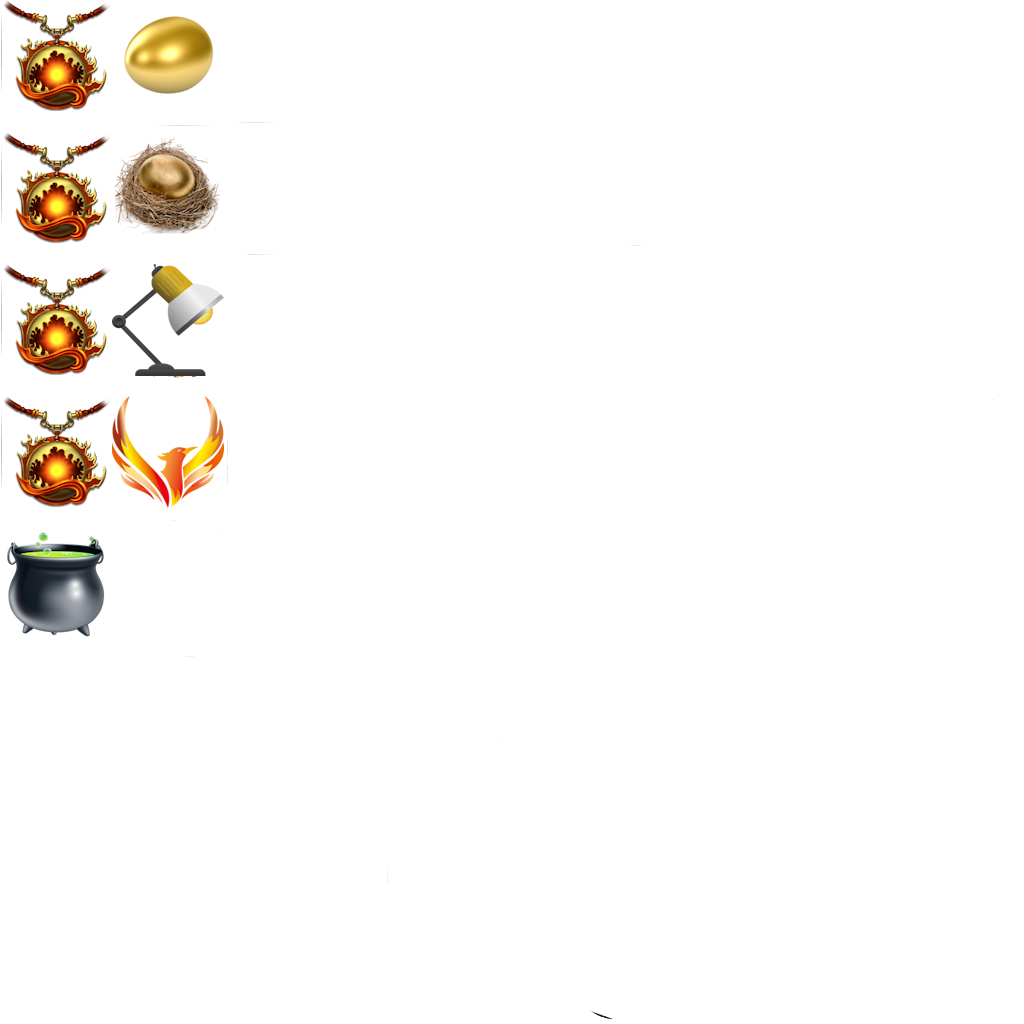
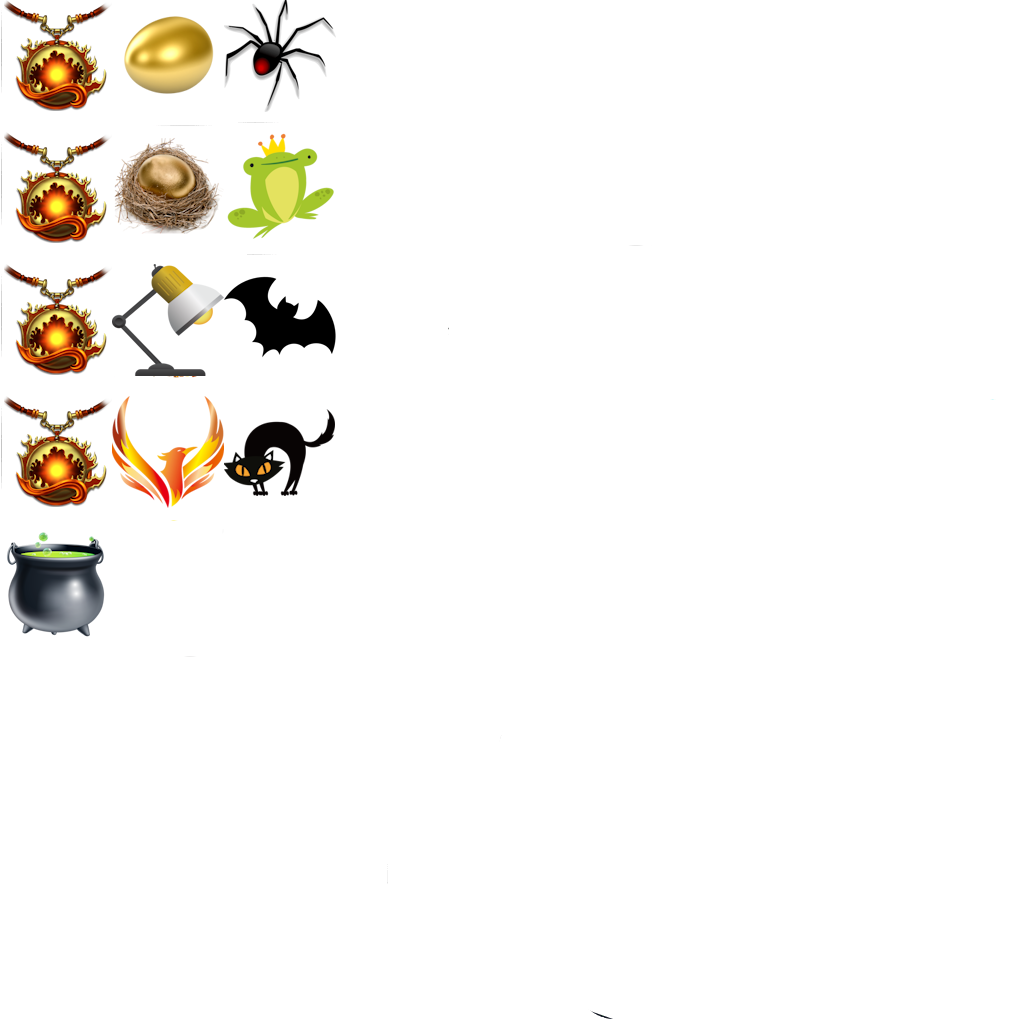
- начало работы с перемещением объектов при tap

Changed region(s): [[0.2188, 0.125, 0.3438, 0.3438], [0.2188, 0.4062, 0.3438, 0.5], [0.2188, 0.0, 0.3125, 0.0938]]

diff --git a/core/src/com/merge/game/scenes/SceneGame.java b/core/src/com/merge/game/scenes/SceneGame.java
@@ -5,6 +5,7 @@ import com.merge.game.logic.Input;
 import com.merge.game.logic.Tools;
 import com.merge.game.logic.player_data.Player;
 import com.merge.game.objects.Background;
+import com.merge.game.objects.DisplayObject;
 import com.merge.game.objects.game_elements.Task;
 import com.merge.game.objects.game_elements.Trash;
 import com.merge.game.objects.grid.GenerateItemType;
@@ -73,6 +74,7 @@ public class SceneGame extends Scene {
         updateTopPanel();
         updateTaskPanel();
         updateClearButton();
+        updateBonuses();
         updateGlobal();
     }
 
@@ -154,7 +156,7 @@ public class SceneGame extends Scene {
     private void initGenerateItem() {
         int x = Tools.randomInt(GRID_COUNT_WIDTH);
         int y = Tools.randomInt(GRID_COUNT_HEIGHT);
-        _items[x][y] = new com.merge.game.objects.grid.MergeItem(_grid[x][y].getX(), _grid[x][y].getY(), _grid[x][y].getWidth(), _grid[x][y].getHeight(), x, y, 0, 1, GenerateItemType.KETTLE, GameObjectType.GENERATE);
+        _items[x][y] = new MergeItem(_grid[x][y].getX(), _grid[x][y].getY(), _grid[x][y].getWidth(), _grid[x][y].getHeight(), x, y, 0, 1, GenerateItemType.KETTLE, GameObjectType.GENERATE);
         _items[x][y].setType(GameObjectType.GENERATE);
         addChild(_items[x][y]);
     }
@@ -193,6 +195,8 @@ public class SceneGame extends Scene {
     }
 
     private void updateItems() {
+        updateTouch();
+        //updateDrag();
         boolean isOverlap = false;
         if(_activeObject != null && !Input.isTouched()){
             for (int i = 0; i < GRID_COUNT_WIDTH; i++) {
@@ -218,6 +222,59 @@ public class SceneGame extends Scene {
             _activeObject = null;
 
         }
+    }
+
+    private void updateTouch(){
+
+        if(!Input.isJustTouched()){
+            return;
+        }
+
+        for (int i = 0; i < GRID_COUNT_WIDTH; i++) {
+            for (int j = 0; j < GRID_COUNT_HEIGHT; j++) {
+                if(_items[i][j] != null && _items[i][j].isTouched()){
+                    MergeItem obj = _items[i][j];
+                    //check bonuses here
+                    //checkBonuses();
+                    if(_activeObject == null){
+                        activeteObject(obj);
+                        obj.startDrag();
+                    }else {
+                        if(_activeObject == obj){
+                            deactivateObject();
+                            //game sound deactivate
+                        }else {
+                            if(getDistanceBetweenObjects(_activeObject, obj) == 1.0f){
+
+                            }else {
+
+                            }
+                        }
+                    }
+                }
+
+
+            }
+        }
+    }
+
+    private float getDistanceBetweenObjects(MergeItem obj1, MergeItem obj2) {
+        return Tools.getDistance(obj1.getGridX(), obj1.getGridY(), obj2.getGridX(), obj2.getGridY());
+    }
+
+    private void activeteObject(MergeItem obj) {
+        //sound on activate
+        _activeObject = obj;
+        obj.setActive(true);
+    }
+
+    private void deactivateObject() {
+        if (_activeObject == null){
+            return;
+        }
+
+        _activeObject.setActive(false);
+        _activeObject = null;
     }
 
     private void updateTopPanel() {
@@ -288,6 +345,10 @@ public class SceneGame extends Scene {
                 }
             }
         }
+    }
+
+    private void updateBonuses(){
+
     }
 
     private void updateGlobal(){

diff --git a/core/src/com/merge/game/resources/textures/TextureItems.java b/core/src/com/merge/game/resources/textures/TextureItems.java
@@ -5,7 +5,8 @@ import com.badlogic.gdx.graphics.g2d.TextureRegion;
 
 public class TextureItems {
 
-    public static TextureRegion buttonStart, generateKettle, score, gold, level, trash, clear, taskField, taskAbledButton, taskDisabledButton, fade, broken;
+    public static TextureRegion buttonStart, generateKettle, score, gold, level, trash, clear,
+            taskField, taskAbledButton, taskDisabledButton, fade, broken;
     public static TextureRegion bonusPanel, bonusField, bonusFixGenerate, bonusMaxItem, bonusRandomItem;
     public static TextureRegion mainScenePlay, mainSceneShop, mainSceneRewards;
     public static TextureRegion[] gridCell, kettle1, kettle2, kettle3, kettle4, kettle5;
@@ -90,25 +91,25 @@ public class TextureItems {
         Texture texture = Textures.amulet;
 
         //in const
-        amulet1 = new TextureRegion[5];
+        amulet1 = new TextureRegion[3];
         amulet1[0] = new TextureRegion(texture, 0, 0, 112, 112);
         for (int i = 1; i <= 1; i++) {
             amulet1[i] = new TextureRegion(texture, i * 112, 0, 112, 112);
         }
 
-        amulet2 = new TextureRegion[5];
+        amulet2 = new TextureRegion[3];
         amulet2[0] = new TextureRegion(texture, 0, 132, 112, 112);
         for (int i = 1; i <= 1; i++) {
             amulet2[i] = new TextureRegion(texture,i * 112, 132, 112, 112);
         }
 
-        amulet3 = new TextureRegion[5];
+        amulet3 = new TextureRegion[3];
         amulet3[0] = new TextureRegion(texture, 0, 264, 112, 112);
         for (int i = 1; i <= 1; i++) {
             amulet3[i] = new TextureRegion(texture, i * 112, 264, 112, 112);
         }
 
-        amulet4 = new TextureRegion[5];
+        amulet4 = new TextureRegion[3];
         amulet4[0] = new TextureRegion(texture, 0, 396, 112, 112);
         for (int i = 1; i <= 1; i++) {
             amulet4[i] = new TextureRegion(texture, i * 112, 396, 112, 112);
@@ -147,7 +148,7 @@ public class TextureItems {
 
     private static void initEffects(){
         Texture texture = Textures.panels;
-        broken = new TextureRegion(texture, 0, 565, 120, 120);
+        broken = new TextureRegion(texture, 565, 0, 120, 120);
     }
 
     private static void initGameItems() {

diff --git a/core/src/com/merge/game/objects/grid/MergeItem.java b/core/src/com/merge/game/objects/grid/MergeItem.java
@@ -3,7 +3,9 @@ package com.merge.game.objects.grid;
 import com.badlogic.gdx.graphics.g2d.TextureRegion;
 import com.merge.game.logic.Globals;
 import com.merge.game.logic.Input;
+import com.merge.game.objects.DisplayObject;
 import com.merge.game.objects.GameObjectType;
+import com.merge.game.resources.textures.TextureItems;
 
 public class MergeItem extends GridObject {
 
@@ -14,6 +16,10 @@ public class MergeItem extends GridObject {
     private boolean _isMoving = false;
     private float _startMoveX = 0, _startMoveY = 0;
     private float _moveX = 0, _moveY = 0;
+
+    private boolean _isDragging = false;
+    private float _startDragX = 0, _startDragY = 0;
+    private float _dragX = 0, _dragY = 0;
 
     protected boolean _isActive = false;
     protected boolean _isBroken = false;
@@ -120,11 +126,27 @@ public class MergeItem extends GridObject {
 
     private void updateGenerator(){
         if(getGameObjectType() == GameObjectType.GENERATE && _energy == 0){
-
-            _isBroken = true;
+            brokeItem();
         }else if(!_isBroken) {
-
+            fixItem();
         }
     }
 
+    public void brokeItem() {
+        DisplayObject broken = new DisplayObject(TextureItems.broken);
+        addChild(broken);
+        broken.scaleToFit(0.5f, 0.5f);
+        broken.setCenterCoeff(0.9f, 0.1f);
+        _isBroken = true;
+    }
+
+    private void fixItem() {
+
+    }
+
+    public void startDrag() {
+        _isDragging = true;
+        _startDragX = _dragX = Input.GetTouchX();
+        _startDragY = _dragY = Input.GetTouchY();
+    }
 }

diff --git a/core/src/com/merge/game/objects/gui/elements/panels/RightPanel.java b/core/src/com/merge/game/objects/gui/elements/panels/RightPanel.java
@@ -8,7 +8,7 @@ import com.merge.game.resources.textures.TextureItems;
 
 public class RightPanel extends DisplayObject {
 
-    private DisplayObject _panelBonus;
+    private PanelBonus _panelBonus;
     private TrashPanel _panelTrash;
 
     public void init() {
@@ -25,7 +25,7 @@ public class RightPanel extends DisplayObject {
         return _panelTrash;
     }
 
-    public DisplayObject getBonusPanel(){
+    public PanelBonus getBonusPanel(){
         return _panelBonus;
     }
 

diff --git a/core/src/com/merge/game/objects/grid/GenerateItemType.java b/core/src/com/merge/game/objects/grid/GenerateItemType.java
@@ -63,13 +63,14 @@ public class GenerateItemType {
     }
 
     public static int getEnergyByType(String generateType) {
-        switch (generateType){
+        return 3;
+/*        switch (generateType){
             case AMULET:
             case POTION:
                 return 10;
         }
 
-        return -1;
+        return -1;*/
     }
 
 /*    public static TextureRegion[] getTypeName(String type, int level) {

diff --git a/core/src/com/merge/game/objects/game_elements/PanelBonus.java b/core/src/com/merge/game/objects/game_elements/PanelBonus.java
@@ -23,6 +23,10 @@ public class PanelBonus extends DisplayObject {
         initBonusButtons();
     }
 
+    public ArrayList<BonusButton> bonuses() {
+        return _buttons;
+    }
+
     private void initBonusSquare() {
         float maxBonusSquareHeight = getHeight() / BonusType.BONUS_QUANTITY;
         float bonusSquareSize = getWidth() < maxBonusSquareHeight ? getWidth() : maxBonusSquareHeight;

diff --git a/core/src/com/merge/game/logic/Tools.java b/core/src/com/merge/game/logic/Tools.java
@@ -43,4 +43,9 @@ public class Tools {
         float moveY = object.getMoveY();
         return (float) Math.sqrt(moveX * moveX + moveY * moveY);
     }
+
+    public static float getDistance(float x1, float y1, float x2, float y2) {
+
+    }
+
 }

diff --git a/core/src/com/merge/game/objects/DisplayObject.java b/core/src/com/merge/game/objects/DisplayObject.java
@@ -10,6 +10,7 @@ import com.merge.game.logic.Input;
 import com.merge.game.logic.Tools;
 
 import java.util.ArrayList;
+import java.util.Collection;
 
 public class DisplayObject {
 
